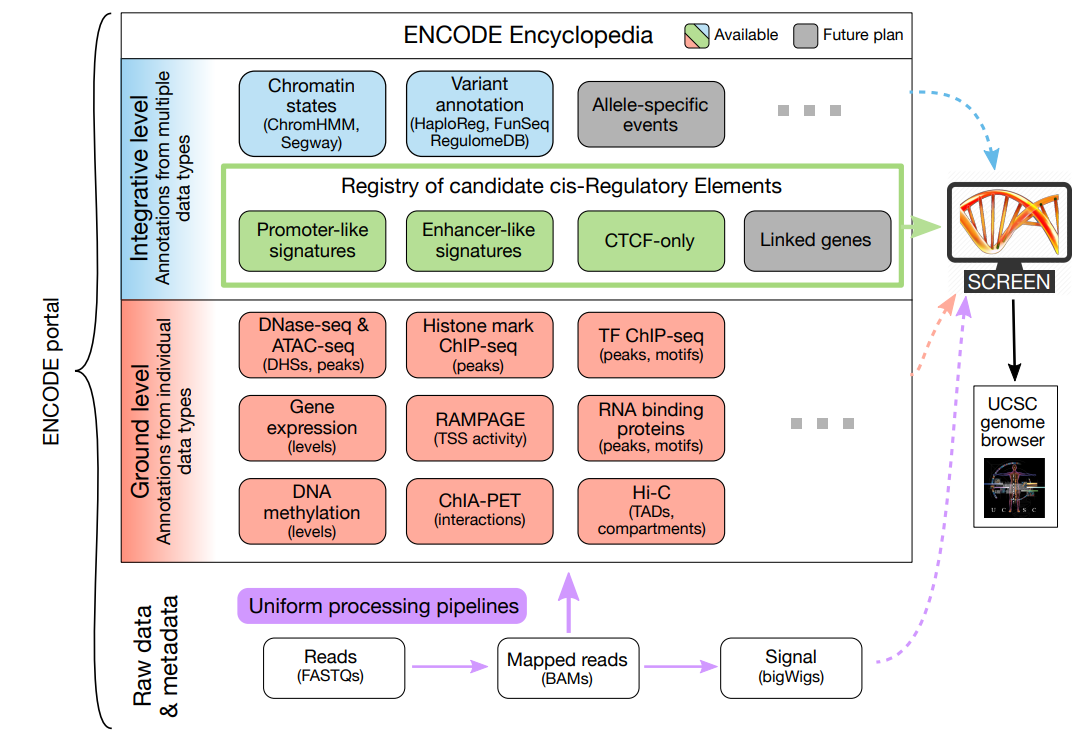
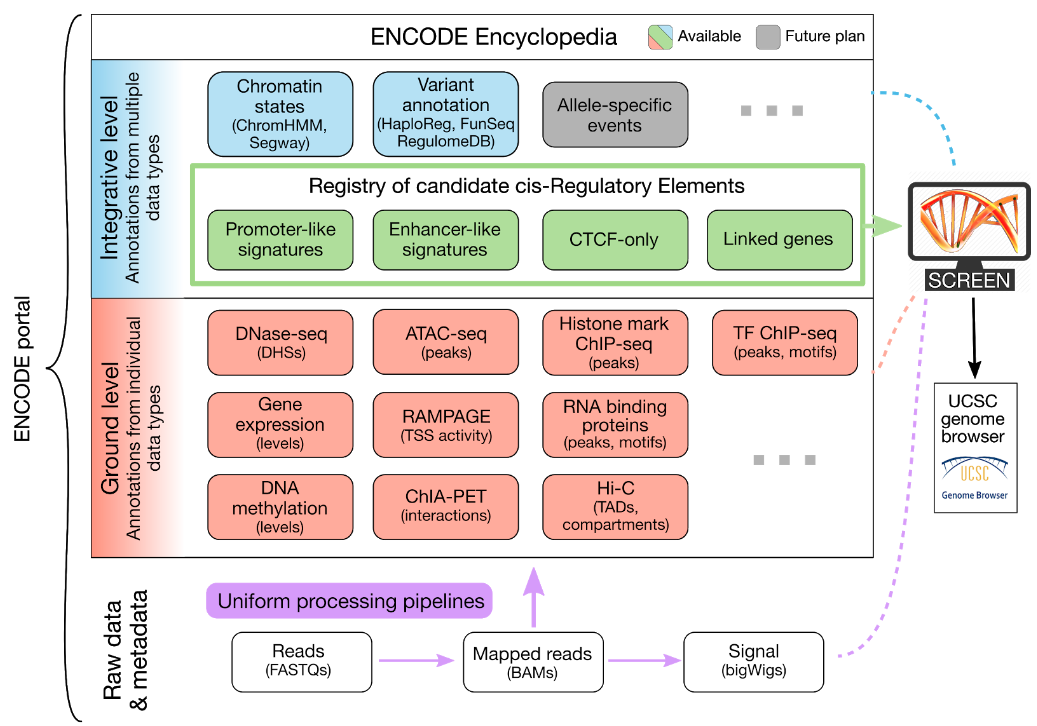
update about page

diff --git a/website/ui/src/apps/index/components/tab_about_paragraphs.js b/website/ui/src/apps/index/components/tab_about_paragraphs.js
@@ -4,98 +4,102 @@ import * as ApiClient from '../../../common/api_client';
 
 export const intro = () => (
     <p>
-        The ENCODE Encyclopedia comprises two levels of epigenetic annotations (<b>Figure 1</b>). The ground level includes peaks and quantifications produced by the ENCODE uniform processing pipelines for individual data types.  The integrative level contains annotations generated by integrating multiple ground-level annotations. The core of the integrative level is the Registry of candidate cis-Regulatory Elements (cCREs), and SCREEN is a web-based visualization engine designed specifically for the Registry. SCREEN allows the user to explore ccREs and investigate how these elements relate to other annotations in the Encyclopedia, as well as raw ENCODE data where informative.
+        The ENCODE Encyclopedia comprises two levels of epigenomic and transcriptomic annotations (<strong>Figure 1</strong>). The ground level includes annotations such as peaks and quantifications for individual data types produced by the ENCODE uniform processing pipelines. The integrative level contains annotations generated by integrating multiple ground-level annotations. The core of the integrative level is the Registry of candidate cis-Regulatory Elements (cCREs) which are displayed in SCREEN, a web-based visualization engine designed specifically for the Registry. SCREEN allows the user to explore cCREs and investigate how these elements relate to other Encyclopedia annotations and raw ENCODE data.
     </p>);
 
 export const registry1 = () => (
     <p>
-	The cCREs in the Registry are the subset of representative DNase hypersensitivity sites (rDHSs; <b>Figure 2</b>) with epigenetic activity further supported by histone modification (H3K4me3 and H3K27ac) or CTCF-binding data. We derive the rDHSs from of 449 DNase-seq datasets in human and 62 DNase-seq datasets in mouse. Raw DHSs are called from these datasets using the <a href="https://www.encodeproject.org/search/?type=Experiment&internal_tags=ENCYCLOPEDIAv4&assay_slims=DNA+accessibility&assembly=hg19&files.file_type=bed+broadPeak" target="_blank" rel="noopener noreferrer">HOTSPOT2</a> algorithm, and the DHSs are condensed into rDHSs using <a href="https://www.ncbi.nlm.nih.gov/pubmed/22576172" target="_blank" rel="noopener noreferrer">Bedops</a> and a custom script by the Stam lab (<a href="https://github.com/Jill-Moore/ENCODE3/blob/master/Registry-of-ccREs/Create-Registry/Create-rDHSs.sh" target="_blank" rel="noopener noreferrer">GitHub</a>) as follows. The DHSs number &#126;73 M in human and &#126;13.8 M in mouse at a false discovery rate (FDR) &#60; 5&#37; (<b>Figure 2</b>), and we further filter these to an FDR threshold of 0.1&#37;. We iteratively cluster these DHSs across all experiments and select the DHS with the highest signal—measured in Z-score—as the rDHS for each cluster. To compute Z-scores, we first quantify the DNase signal for each DHS, which is the average number of DNase-seq reads across all nucleotide positions within the DHS, and then calculate the mean and standard deviation of DNase signals across all DHSs in each experiment. The iterative clustering and selection process continue until it finally results in a list of non-overlapping rDHSs representing all DHSs, numbering 2,115,300 for human and 1,036,226 for mouse (<b>Figure 3</b>). We filter out rDHSs with Z-scores less than 1.64—a threshold corresponding to the 95th percentile of a one-tailed test—yielding 1,661,868 human and 628,352 mouse rDHSs (<b>Figure 3</b>).
+	cCREs are the subset of representative DNase hypersensitivity sites (rDHSs) supported by either histone modifications (H3K4me3 and H3K27ac) or CTCF-binding data. We start with 93 million individual DHSs across 706 DNase-seq profiles in human and 20 million individual DHSs from 173 DNase-seq profiles in mouse.  For each respective species, we iteratively cluster the DHSs across all profiles and select the DHS with the highest signal (read depth normalized signal) as the rDHS for each cluster. This iterative clustering and selection process continues until it results in a list of non-overlapping rDHSs—2.2 million rDHSs in human and 1.2 rDHSs in mouse—representing all DHSs (<strong>Figure 3</strong>). We then further selected rDHSs with high DNase signal in at least one biosample (defined as a Z-score > 1.64, see details on defining high signal below). Finally, from this subset of high signal rDHSs, we selected all elements that were also supported by high H3K4me3, H3K27ac, and/or CTCF ChIP-seq signals in concerted biosamples (i.e., samples with complementary assay coverage). This resulted in a total of 926,535 human cCREs and 339,815 mouse cCREs (<strong>Figure 2</strong>).
     </p>);
 
 export const registry2 = () => (
     <p>
-	We asked whether each rDHS was supported by H3K4me3, H3K27ac, and CTCF ChIP-seq signals. Each ChIP-seq experiment has a control (called the input), and most ENCODE ChIP-seq experiments have two biological replicates. We defined the signal as the log-fold-change between the ChIP reads and input reads at each genomic position, combining reads from both biological replicates if available. The log-fold-changes were computed using ENCODE uniform processing pipelines, one pipeline for histone marks and another for transcription factors. We calculated the average CTCF signal across all the genomic positions of each rDHS for every cell type with available data, and we performed the same calculation for H3K4me3 and H3K27ac after extending the rDHS on both ends by ±500 bp, because DHSs are typically nucleosome depleted and the histone marks reside on the nucleosomes flanking the rDHS. To enable comparison of signals across different experiments, we transformed these average signals to Z-scores by calculating the mean and standard deviation across all rDHSs for each histone mark or CTCF ChIP-seq experiment. 
+	For each rDHS, we computed the Z-scores of the log10 of DNase, H3K4me3, H3K27ac, and CTCF signals in each biosample with such data. Z-score computation is necessary for the signals to be comparable across biosamples because the uniform processing pipelines for DNase-seq and ChIP-seq data produce different types of signals. The DNase-seq signal is in sequencing-depth normalized read counts, whereas the ChIP-seq signal is the fold change of ChIP over input. Even for the ChIP-seq signal, which is normalized using a control experiment, substantial variation remains in the range of signals among biosamples. 
     </p>);
 
 export const registry3 = () => (
     <p>
-        The subset of rDHSs with support from at least one additional type of epigenetic signal are designated cCREs, i.e., the rDHSs with high H3K4me3, H3K27ac, or CTCF-binding signals (high signal is defined as Z-score > 1.64) in at least one cell type. We abbreviate the maximal Z-score for a data type across all cell types with ENCODE and Roadmap data as the data type’s max-Z. Thus ccREs are rDHSs with DNase max-Z > 1.64 AND (H3K4me3 max-Z > 1.64 OR H3K27ac max-Z > 1.64 OR CTCF max-Z > 1.64). In total, there are 1,310,152 human ccREs and 431,202 mouse ccREs (<b>Figure 3</b>). Among them, 724,590 human ccREs and 228,027 mouse ccREs have high DNase and high H3K4me3, H3K27ac, or CTCF in the same cell type; these ccREs are further designated as having "concordant" support and are marked with a blue star in SCREEN.
+        To implement this Z-score normalization, we used the UCSC tool bigWigAverageOverBed to compute the signal for each rDHS for a DNase, H3K4me3, H3K27ac, or CTCF experiment. For DNase and CTCF, the signal was averaged across the genomic positions in the rDHS. The signals of H3K4me3 and H3K27ac were averaged across an extended region—the rDHS plus a 500-bp flanking region on each side—to account for these histone marks at the flanking nucleosomes. We then took the log10 of these signals and computed a Z-score for each rDHS compared with all other rDHSs within a biosample. rDHSs with a raw signal of 0 were assigned a Z-score of -10. For all analysis we defined "high signal" as a Z-score greater than 1.64, a threshold corresponding to the 95th percentile of a one-tailed test. We define a max-Z of a rDHS as the maximum z-score for a signal across all surveyed biosamples.
     </p>);
 
 export const classif1 = () => (
         <p>
-	    In analogy with the GENCODE catalog of genes, which are defined irrespective of their varying expression levels and alternative transcripts across different cell types, we provide a general, cell type-agnostic classification of cCREs based on the max-Zs. With the H3K4me3, H3K27ac, or CTCF max-Zs values being either high (&ge; 1.64) or low (&lt; 1.64), a ccRE can adopt one of eight states. Furthermore, each ccRE is classified as being proximal (&le; 2 kb) or distal (&gt; 2 kb) to the nearest GENCODE annotated TSS. We further combine some of the aforementioned states into three broader mutually-exclusive groups (<b>Figure 3</b>): 
+	Many uses of cCREs are based on the regulatory role associated with their biochemical signatures. Thus, we putatively defined cCREs in one of the following annotation groups based on each element’s dominant biochemical signals across all available biosamples. Analogous to GENCODE's catalog of genes, which are defined irrespective of their varying expression levels and alternative transcripts across different cell types, we provide a general, cell type-agnostic classification of cCREs based on the max-Zs as well as its proximity to the nearest annotated TSS:
         </p>);
 
 export const classif2 = () => (
     <ol type="1">
-	<li>cCREs with promoter-like signatures (ccRE-PLS) must have high H3K4me3 max-Zs. If they are TSS-distal, they must also have low H3K27ac max-Zs.</li>
-	<li>cCREs with enhancer-like signatures (ccRE-ELS) must have high H3K27ac max-Zs. If they are TSS-proximal, they must also have low H3K4me3 max-Zs.</li>
-	<li>CTCF-only cCREs are the remaining ccREs. They do not fall into either of the first two categories and thus by definition must have high CTCF max-Zs to qualify as ccREs.</li>
+	<li><em>cCREs with promoter-like signatures (cCRE-PLS)</em> fall within 200 bp (center to center) of an annotated GENCODE TSS and have high DNase and H3K4me3 signals (evaluated as DNase and H3K4me3 max-Z scores, defined as the maximal DNase or H3K4me3 Z scores across all biosamples with data; see Methods).</li>
+	<li><em>cCREs with enhancer-like signatures (cCRE-ELS)</em> have high DNase and H3K27ac max-Z scores and must additionally have a low H3K4me3 max-Z score if they are within 200 bp of an annotated TSS. The subset of cCREs-ELS within 2 kb of a TSS is denoted proximal (cCRE-pELS), while the remaining subset is denoted distal (cCRE-dELS).</li>
+        <li><em>DNase-H3K4me3 cCREs</em> have high H3K4me3 max-Z scores but low H3K27ac max-Z scores and do not fall within 200 bp of a TSS.</li>
+	<li><em>CTCF-only cCREs</em> have high DNase and CTCF max-Z scores and low H3K4me3, H3K27ac, and CTCF max-Z scores. </li>
     </ol>);
 
 export const classif3 = () => (
     <p>
-	In addition to the cell type-agnostic classification described above, we evaluated the biochemical activity of each cCRE in each individual cell type using the corresponding DNase, H3K4me3, H3K27ac, and CTCF data. All ccREs with low DNase Z-scores in a particular cell type are bundled into one &ldquo;inactive&rdquo; state for that cell type; the remaining &ldquo;active&rdquo; ccREs are divided into eight states according to their epigenetic signal Z-scores, producing nine possible states in total. The three groups described above&mdash;ccRE-PLS, ccRE-ELS, and CTCF-only ccRE&mdash;apply to the active ccREs within a particular cell type. Two additional groups are defined with respect to individual cell types: an "inactive" group, containing all ccREs in the inactive state, and a DNase-only group, containing ccREs with high DNase Z-scores but low H3K4me3, H3K27ac, and CTCF Z-scores within the cell type. Importantly, while the classification tree in Figure 3 places each ccRE into only one activity group, the signal strengths for all recorded epigenetic features are retained for each ccRE in the Registry, and these can be used for customized searches by users, as explained below.
+	In addition to the cell type-agnostic classification described above, we evaluated the biochemical activity of each cCRE in each individual cell type using the corresponding DNase, H3K4me3, H3K27ac, and CTCF data (<strong>Figure 3</strong>). All cCREs with low DNase Z-scores in a particular cell type are bundled into one “inactive” state for that cell type; the remaining “active” cCREs are divided into eight states according to their epigenetic signal Z-scores, producing nine possible states in total. The three groups described above—cCRE-PLS, cCRE-ELS, and CTCF-only cCRE—apply to the active cCREs within a particular cell type. Two additional groups are defined with respect to individual cell types: an <u>inactive</u> group, containing all cCREs in the inactive state, and a <u>DNase-only</u> group, containing cCREs with high DNase Z-scores but low H3K4me3, H3K27ac, and CTCF Z-scores within the cell type. Importantly, while the classification schemes in <strong>Figures 2 and 3</strong> place each cCRE into only one activity group, the signal strengths for all recorded epigenetic features are retained for each cCRE in the Registry, and these can be used for customized searches by users.
     </p>);
+
+export const classif4 = () => (
+<p>We also attempt to make group assignments for cCREs in a particular biosample not fully covered by the four core assays, making some approximations. For samples with DNase data, we classify elements using the available marks. For example, if a sample lacks H3K27ac its cCREs will be assigned to the PLS and DNase-H3K4me3 groups but not the pELS or dELS groups. For biosamples lacking DNase data, we do not have the resolution to identify specific elements. Therefore, for these biosamples, we simply label the cCRE as having a high or low signal for every available assay. In these biosamples, cCREs with low H3K4me3, H3K27ac, or CTCF signals were labelled “unclassified” because we were unable to classify them as low-DNase without DNase data. In both SCREEN and in downloadable files biosamples lacking data are clearly labeled as such.</p>
+);
 
 export const genomicFootprint = () => (
     <p>
-	We analyzed the percentage of the genome covered by each group of cCREs, considering only regions of the genome which are mappable by 36-nt long sequences in DNase-seq experiments (~2.65 billion bases for human and 2.29 billion bases for mouse). In total, 20.8% of the mappable genome is covered by ccREs (4.2% by ccREs-PLS, 15.9% by ccREs-ELS, and 0.7% by CTCF-only ccREs) and 8.8% of the mappable mouse genome is covered by ccREs (<b>Figure 4</b>). The lower coverage for mouse is due to the smaller number of cell types with data to define ccREs.
+	We analyzed the percentage of the genome covered by each group of cCREs, considering only regions of the genome which are not blacklisted (~3.2 billion bases for human and 2.7 billion bases for mouse). In total, 7.9% of the mappable genome is covered by cCREs (0.3% by cCREs-PLS, 1.1% by cCREs-pELS, 5.8% by cCREs-dELS, 0.2% by DNase-H3K4me3 cCREs and 0.7% by CTCF-only cCREs) and 3.4% of the mappable mouse genome is covered by cCREs (<strong>Figure 4</strong>). The lower coverage for mouse is due to the smaller number of cell types with data to define cCREs.
     </p>)
 
-export const comprehensiveness1 = () => (
+export const additionalProperties = () => (<>
     <p>
-	In defining the registry of cCREs based on rDHSs, we have assumed that the existing collection of rDHSs distilled from hundreds of DNase-seq experiments can accurately represent ccREs in all cell types. In other words, we assume that all cell types, including those without DNase-seq data, use a subset of the ccREs in the registry as their regulatory landscape. To test this hypothesis, we set out to assess the comprehensiveness of the Registry in three ways.
-    </p>);
-export const comprehensiveness2 = () => (
+	We performed additional analysis on including:</p>
+<ul><li>Comprehensiveness of the Registry</li>
+<li>Conservation</li>
+<li>Overlap with other epigenomic and transcriptomic data</li>
+<li>Experimental validation from mouse transgenic assays</li>
+</ul>
+<p>
+Details and results from these analyses can be found at our companion website, <a href="http://encyclopedia.wenglab.org/">http://encyclopedia.wenglab.org/</a>.
+    </p></>);
+
+export const groundLevel = () => (
     <p>
-	First, we examined how many of the GENCODE-annotated TSSs (V19 for human and M4 for mouse) were covered by the current version of the Registry of cCREs. For human, 67% of all annotated TSSs and 72% of the TSSs of protein-coding genes are within 2kb of a ccRE in the Registry. For mouse, 61% of all annotated TSSs and 66% of the TSSs of protein-coding genes are within 2 kb of a ccRE in the Registry.
-    </p>);
-export const comprehensiveness3 = () => (
-    <p>
-	Second, we analyzed how rapidly the total number of unique rDHSs saturated with more and more cell types. We modeled rDHS saturation using a Weibull distribution and the results indicate that and 78.9% and 73.5% of rDHSs with FDR&lt;0.1% and Z-score&gt;1.64 have been identified in human and mouse respectively.
-    </p>);
-export const comprehensiveness4 = () => (
-    <p>
-	Third, we computed the Registry&#39;s coverages of H3K27ac, H3K4me3, and CTCF peaks&nbsp;(FDR&lt;0.01) of cell types with the corresponding ChIP-seq data but without DNase-seq data (<b>Figure 5</b>). The Registry covers 87&plusmn;5% of H3K27ac, 90&plusmn;8% of H3K4me3 and 99&plusmn;0.8% of CTCF peaks. The coverage was equally high for mouse, despite a smaller number of DNase-seq experiments for building the mouse Registry: 88&plusmn;5% of H3K27ac peaks (69 tissue&ndash;time-points) and 96&plusmn;8% of H3K4me3 peaks (74 tissue&ndash;time-points) were accounted for. (There are no cell types with CTCF ChIP-seq data but no DNase-seq data.)
+	In addition to hosting the Registry of cCREs, SCREEN also integrates the ground level Encyclopedia annotations. Under the <em>cCRE Details page</em> for each cCRE are the overlapping ground level annotations with links to their derived experiments. Additionally, some annotations, such as histone mark and TF ChIP-seq peaks, gene expression, and RAMPAGE transcription levels are highlighted further with specific tabs under the <em>cCRE Details</em> page.
     </p>);
 
-export const genomicContext = () => (
-    <p>
-	Using GENCODE V19 annotations, we find that 18.5% of human cCREs (<b>Figure 6</b>) are proximal (&plusmn;2 kb) to annotated GENCODE transcription start sites (TSSs) while the majority of ccREs are distal from TSSs and lie in introns (45.0%) or intergenic regions (32.7%). A similar distribution is observed in mouse, with 20.1% of ccREs proximal to annotated TSSs, 39.7% lie within introns and 35.7% fall in intergenic regions. We annotated each ccRE with nearby genomic elements, including genes and their expression levels, single nucleotide polymorphisms (SNPs), and elements within the same topologically associated domains (TADs). These annotations can be found for each ccRE on the <i>Nearby Genomic Features</i> tab of the <i>ccRE Details</i> page.
-    </p>);
-
-export const occupancy1 = () => (
-    <p>
-	In addition to the four core epigenomic marks used to generate the Registry, we also annotate each cCRE using all available ChIP-seq data for other histone modifications and transcription factors. Specifically, we intersected each ccRE with all available histone mark and TF ChIP-seq peaks, identified using ENCODE uniform processing pipelines. We display these results in the <i>TF and His-mod Intersection</i> tab of the <i>Details</i> page.
-    </p>);
-
-export const gwas1 = () => (
-    <div>
-        <p>Using the <a href="https://www.ebi.ac.uk/gwas/" target="_blank" rel="noopener noreferrer">NHGRI-EBI GWAS Catalog</a>, we selected studies with the following requirements:
-        </p>
-        <ul>
-            <li>Study must be performed on single population, because mixed populations complicate linkage disequilibrium (LD) structures.
-            </li>
-            <li>For the time being, we are curating only study that use only subjects from CEU (caucasian-european) population, because we use population-specific LD data to perform statistical tests. We plan to include other populations in the near future.
-            </li>
-        </ul>
-        <p>
-            For each study, we downloaded all reported SNPs, even those that were just under genome wide significance.
-        </p>
-    </div>)
+export const gwas1 = () => 
+<p>We downloaded associations reported in the <a href="https://www.ebi.ac.uk/gwas/">NHGRI-EBI genome-wide association studies (GWAS) catalog</a> as of January 1, 2019. Because mixed populations complicate linkage disequilibrium (LD) structures, we only selected studies that were performed on a single population. For each study, we downloaded all reported SNPs (<em>p</em> < 10<sup>-6</sup>), even those that were just under genome wide significance. We then intersected all reported SNPs and SNPs in high LD (<em>r<sup>2</sup></em> > 0.7), with GRCh38 cCREs. These results are available through the SCREEN GWAS app.</p>);
 
 export const gwas2 = () => (
-    <div>
-        <p>
-For each study, we created a control set of SNPs accounting for minor allele frequencies (in CEU population) and distance from transcription start sites (TSS) using SNPs from SNP-Chip arrays. This method was adapted and modified from the <a href="https://github.com/robertkleinlab/uesEnrichment" target="_blank" rel="noopener noreferrer">Uncovering Enrichment through Simulation (UES)</a> method developed by the Klein Lab (Hayes <i>et al.</i> 2015). For each GWAS tagged SNP we generated 100 matched controls. For both GWAS SNPs and control SNPs we also included all SNPs in LD with them (default r<sup>2</sup> &gt; 0.7).
-        </p>
+<p>
+For studies with more than 25 lead SNPs, we performed biosample enrichment analysis. For each study, we generated a matching set of control SNPs as follows: for each SNP in the study (<em>p</em>-value < 10<sup>-6</sup>) we selected a SNP on Illumina and Affymetrix SNP chips that fell within the same population-specific minor allele frequency (MAF) quartile and the same distance to TSS quartile. We repeated this process 500 times, generating 500 random control SNPs for each GWAS SNP. Then, for both GWAS and control SNPs, we retrieved all SNPs in high linkage disequilibrium (LD <em>r<sup>2</sup></em> > 0.7), creating LD groups. This method was adapted and modified from the <a href="https://github.com/robertkleinlab/uesEnrichment">Uncovering Enrichment through Simulation (UES)</a> method developed by the Klein Lab (Hayes <em>et al.</em> 2015).
+</p>
+);
 
-        <p>
-Using all GWAS SNPs + LD and Control SNPs + LD we then intersected the SNPs with cCREs. For cell-type-specific enrichment, we required the ccRE to have a H3K27ac Z-score of 1.64 in that cell type. After pruning for LD, (i.e. only counting one cell-type-specific ccRE per LD block) we used Fisher&#39;s exact test to determine if the GWAS SNPs were enriched in the ccRE specific to each cell type. We are in the process of calculating cell type enrichment based on ccREs with a DNase Z-score above 1.64 in that cell type.
-        </p>
-    </div>)
+export const gwas3 = () => (
+<p>
+To assess whether the cCREs in a biosample were enriched in the GWAS SNPs, we intersected GWAS and control LD groups with cCREs with an H3K27ac Z-score > 1.64 in the biosample. To avoid overcounting, we pruned the overlaps, counting each LD group once per biosample. We modified the UES method by calculating p-values from Z-scores for performing statistical testing. We calculated enrichment for overlapping cCREs by comparing the GWAS LD groups with the 500 matched controls. Finally, we applied a false discovery rate threshold of 5% to each study.
+</p>
+);
+
+const figureLegends = [
+    () => (
+	    <>
+	    <strong>Figure 1 | Overview of the ENCODE Encyclopedia with a Registry of candidate cis-regulatory elements.</strong> The Encyclopedia consists of ground-level and integrative-level of annotations that use data processed by the uniform processing pipelines. SCREEN integrates all levels of annotations and raw data and allows users to visualize them in the UCSC genome browser.
+	    </>
+    ),
+    () => (
+	<><strong>Figure 2 | Selection and classification of cCREs to build the Registry of candidate cis-regulatory elements.</strong> We begin by filtering and clustering DNase peaks to create representative DHSs (rDHSs). We then select those rDHSs with high DNase signal (maximal Z-score or max-Z across all biosamples with data, see Methods) and high signal for at least one other assay (H3K4me3, H3K27ac or CTCF) to be cCREs. In total, we define 926,535 cCREs in human and 339,815 cCREs in mouse. Based on combinations of signal and genomic context, we classify cCREs into one of these groups: PLS, pELS, dELS, DNase-H3K4me3, or CTCF-only, and their counts are indicated (k: thousand; M: million).</>
+    ),
+    () => (
+	    <><strong>Figure 3 |  Classification of cCREs in GM12878.</strong> <strong>a</strong>, Classification of seven groups of cCREs (PLS, pELS, dELS, DNase-H3K4me3, CTCF-only, DNase-only, or low-DNase) in GM12878 by their states of high or low H3K4me3, H3K27ac, or CTCF Z-scores in GM12878. <strong>b</strong>, Number of each group of GM12878 cCREs.</>
+    ),
+    () => (
+	    <><strong>Figure 4 | Genomic coverage of cCREs.</strong> Percentages of the human GRCh38 genome (left) and mouse mm10 genome (right) comprising cCREs stratified by cCRE group: PLS in red, pELS in orange, dELS in yellow, DNase-H3K4me3 in pink and CTCF-only in blue.</>
+    ),
+    () => (
+	<><strong>Figure 5 | Enrichment of GWAS SNPs in biosample specific cCREs.</strong> SCREEN reports the percentage of LD blocks of a GWAS with at least one SNP overlapping a cCRE. Biosamples are ranked by enrichment of SNP-overlapping cCREs with high H3K27ac signals. Top cell and tissue types are displayed here for each study. 
+    )
+];
 
 export const citation = () => (
     <ul>
@@ -115,7 +119,7 @@ export const figure = (num, alt, style = {}) => {
 	                 style={style}
                     />
                     <figcaption className={"figure-caption"}>
-                        <b>Figure {num}</b>
+                        {figureLegends[num - 1]}
                     </figcaption>
                 </figure>
             </div>

diff --git a/website/ui/src/apps/index/components/tab_about.js b/website/ui/src/apps/index/components/tab_about.js
@@ -32,7 +32,7 @@ class TabAbout extends React.Component {
                 </div>
                 <div className="row">
                     <div className="col-md-6">
-		        <h3>The Registry of candidate cis-Regulatory Elements</h3>
+		        <h3>The Registry of cCREs</h3>
 		    </div>
 		</div>	    
                 <div className="row">
@@ -44,6 +44,9 @@ class TabAbout extends React.Component {
                     </div>
                 </div>
                 <div className="row">
+		    <div className="col-md-6">
+		        <h4>Defining high epigenomic signals</h4>
+		    </div>
                     <div className="col-md-6">
                         {Para.registry2()}
 		        {Para.registry3()}
@@ -61,7 +64,8 @@ class TabAbout extends React.Component {
                     <div className="col-md-6">
 		        {Para.classif1()}
 			{Para.classif2()}
-			{Para.classif3()}
+	                {Para.classif3()}
+  	                {Para.classif4()}
 		    </div>
 		</div>
 		<div className="row">
@@ -79,43 +83,22 @@ class TabAbout extends React.Component {
 		</div>
 		<div className="row">
                     <div className="col-md-6">
-			<h3>Comprehensiveness of the Current Registry of cCREs</h3>
-		    </div>
-		</div>
+		        <h3>Additional properties of cCREs</h3>
+                    </div>
+                </div>
                 <div className="row">
                     <div className="col-md-6">
-			{Para.comprehensiveness1()}
-			{Para.comprehensiveness2()}
-			{Para.comprehensiveness3()}
-			{Para.comprehensiveness4()}
+		        {Para.additionalProperties()}
 		    </div>
-		    <div className="col-md-6">
-			{Para.figure(5, "venn")}
-                    </div>
 		</div>
-
 		<div className="row">
                     <div className="col-md-6">
-			<h3>Genomic Context</h3>
-		    </div>
-		</div>
-                <div className="row">
-                    <div className="col-md-6">
-		        {Para.genomicContext()}
-		    </div>
-                    <div className="col-md-6">
-			{Para.figure(6, "venn")}
+		        <h3>Integration with ground level annotations</h3>
                     </div>
-		</div>
-
-		<div className="row">
-                    <div className="col-md-6">
-			<h3>Other Histone Modifications and Transcription Factor Occupancy</h3>
-		    </div>
-		</div>
+                </div>
                 <div className="row">
                     <div className="col-md-6">
-		        {Para.occupancy1()}
+		        {Para.groundLevel()}
 		    </div>
 		</div>
 		
@@ -130,6 +113,7 @@ class TabAbout extends React.Component {
                         {Para.gwas1()}
                         <h4>Determining Cell Types with cCREs Enriched in GWAS SNPs</h4>
                         {Para.gwas2()}
+	                {Para.gwas3()}
 		    </div>
 		</div>
 		
